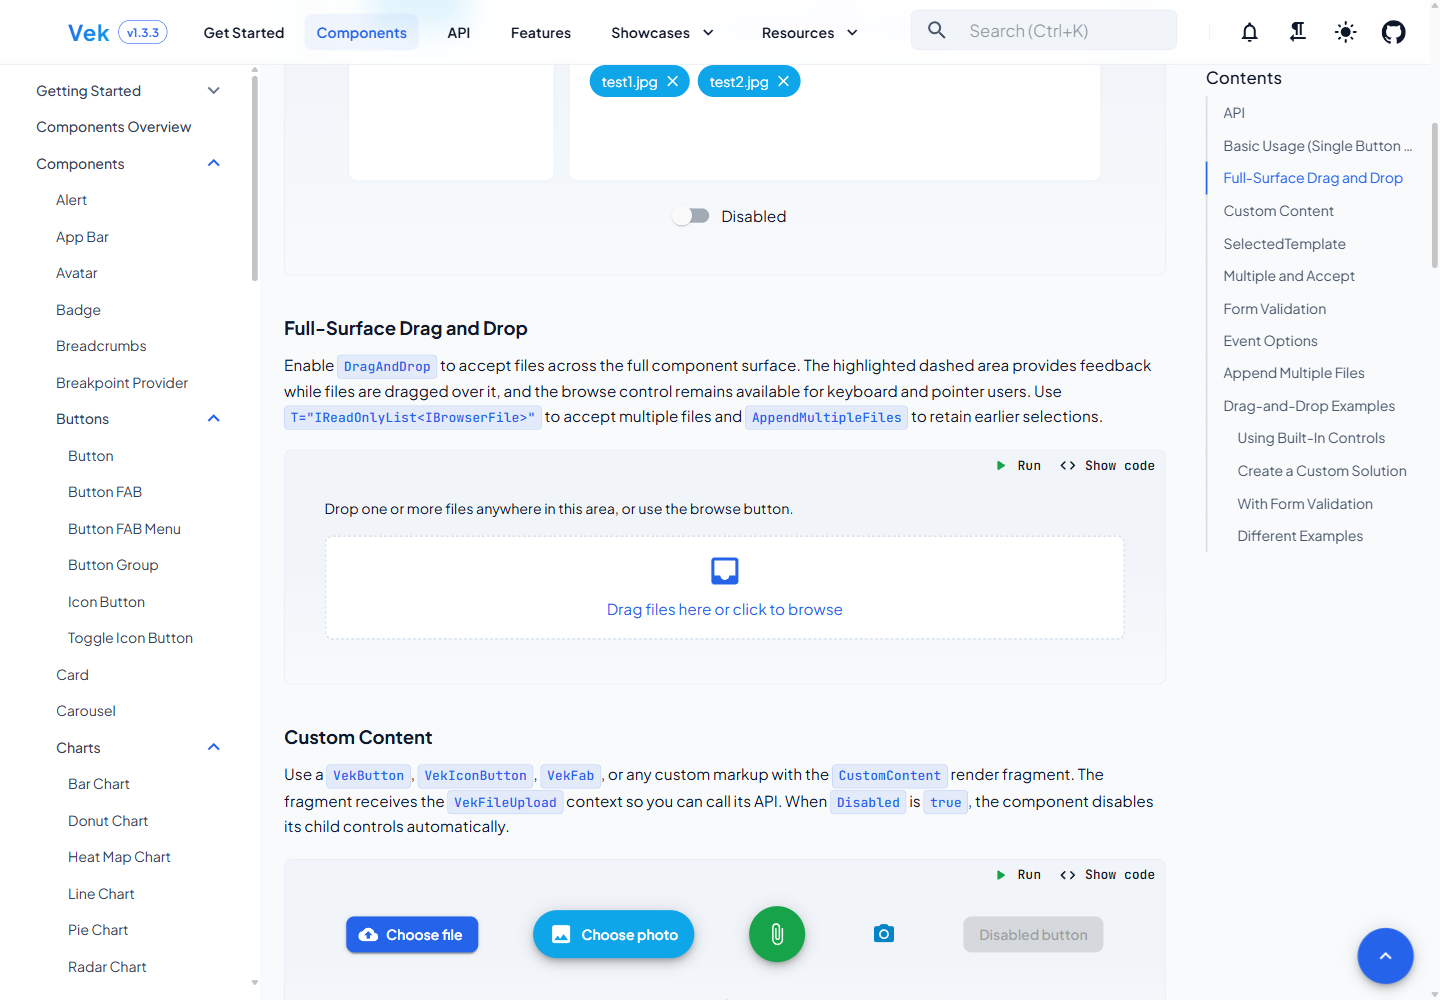
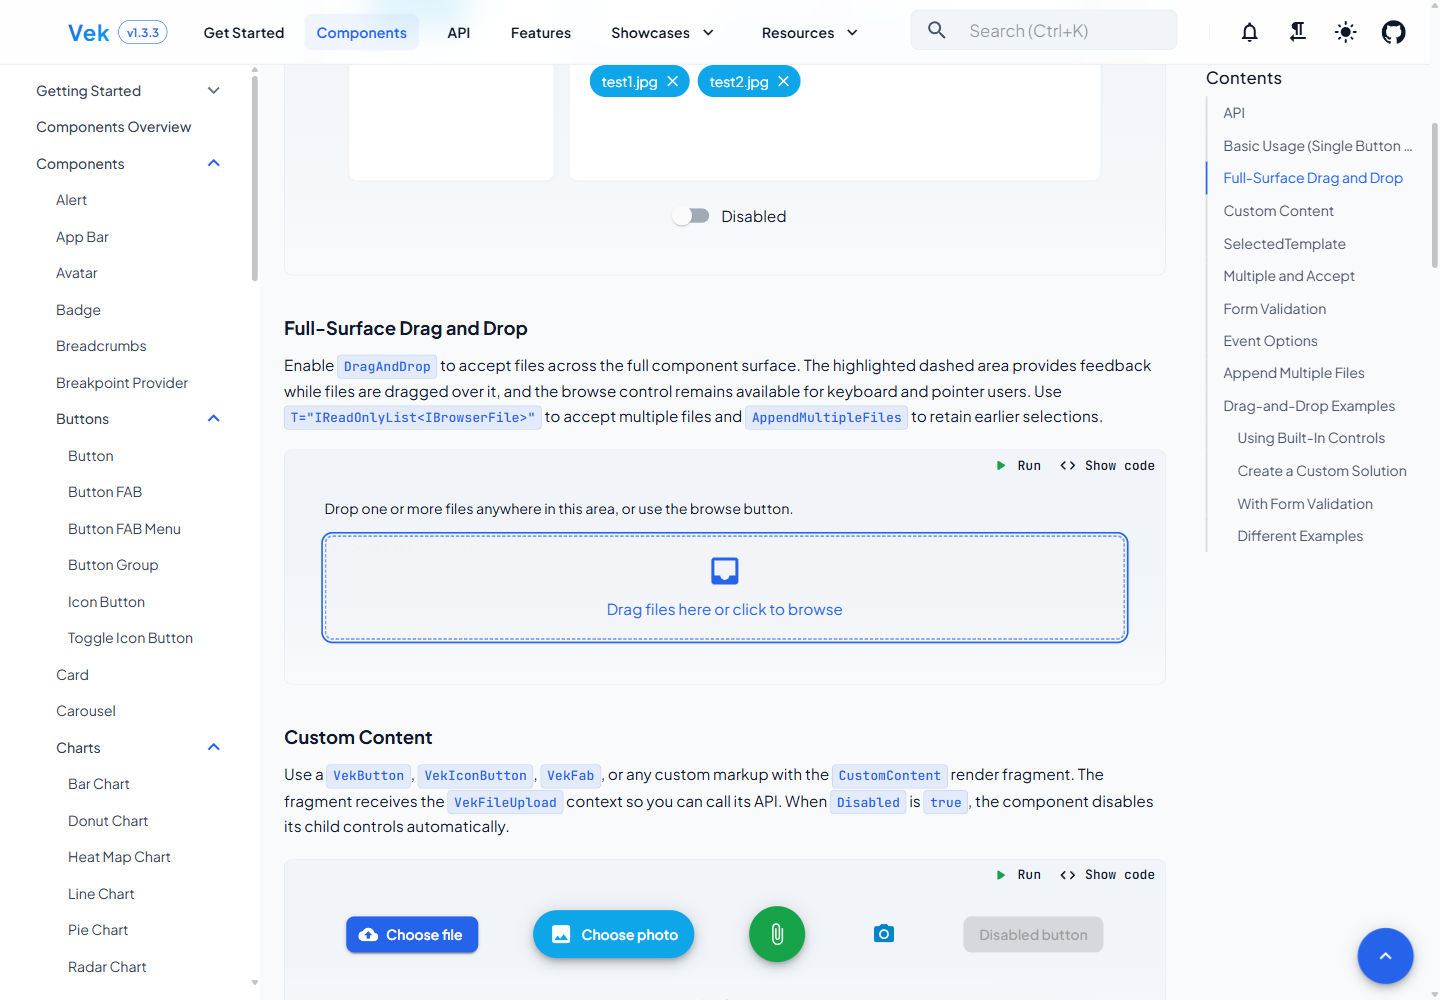
fix(fileupload): show keyboard focus above drop overlay

Changed region(s): [[0.2188, 0.589, 0.7812, 0.651], [0.2188, 0.527, 0.7812, 0.558]]

diff --git a/src/Vek/Styles/components/_fileupload.scss b/src/Vek/Styles/components/_fileupload.scss
@@ -31,6 +31,13 @@
     z-index: 0;
   }
 
+  &:has(> .vek-input-control-input-container > input.vek-file-upload-dragover:focus-visible) {
+    .vek-file-upload-dragarea {
+      outline: 2px solid var(--vek-palette-primary);
+      outline-offset: 2px;
+    }
+  }
+
   &:has(> .vek-input-control-input-container > input.vek-file-upload-dragover) {
     position: relative;
   }
@@ -38,6 +45,7 @@
   .vek-file-upload-dragarea {
     background-color: var(--vek-palette-surface);
     position: relative;
+    z-index: 2;
     display: flex;
     flex-direction: column;
 
@@ -45,6 +53,7 @@
       outline: 2px solid var(--vek-palette-primary);
       outline-offset: 2px;
     }
+
     justify-content: center;
     align-items: center;
     width: 100%;

diff --git a/src/Vek/Components/FileUpload/VekFileUpload.razor.cs b/src/Vek/Components/FileUpload/VekFileUpload.razor.cs
@@ -176,10 +176,10 @@ namespace Vek
         public string? Accept { get; set; }
 
         /// <summary>
-        /// Hides the internal <see cref="InputFile"/> element.
+        /// Hides the internal <see cref="InputFile"/> element when full-surface drag and drop is disabled.
         /// </summary>
         /// <remarks>
-        /// Defaults to <c>true</c>.  When <c>false</c>, the input is visible.
+        /// Defaults to <c>true</c>. When <see cref="DragAndDrop"/> is <c>true</c>, the input remains present for full-surface dropping.
         /// </remarks>
         [Parameter]
         [Category(CategoryTypes.FileUpload.Appearance)]

diff --git a/tests/Components/Vek.UnitTests/Components/FileUploadTests.cs b/tests/Components/Vek.UnitTests/Components/FileUploadTests.cs
@@ -435,6 +435,7 @@ namespace Vek.UnitTests.Components
             comp.Find("input[type=file]").ClassList.Should().Contain("vek-file-upload-dragover");
             comp.Find("button.vek-file-upload-dragarea").Should().NotBeNull();
             comp.Find("button.vek-file-upload-dragarea").HasAttribute("disabled").Should().BeFalse();
+            comp.Find("input[type=file]").HasAttribute("hidden").Should().BeFalse();
             comp.Find("input[type=file]").HasAttribute("multiple").Should().BeTrue();
         }
 
